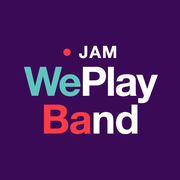
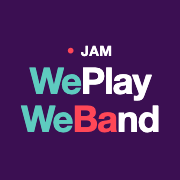
아이콘 글자 WePlay WeBand로 수정 — 사용자 10/27

Changed region(s): [[0.1111, 0.3611, 0.8889, 0.75], [0.4444, 0.25, 0.6667, 0.3333], [0.3333, 0.25, 0.4167, 0.3333]]

diff --git a/band.html b/band.html
@@ -1,6 +1,6 @@
 <!doctype html><html lang="ko"><head><meta charset="utf-8"><meta name="viewport" content="width=device-width,initial-scale=1,viewport-fit=cover">
 <meta name="apple-mobile-web-app-capable" content="yes"><meta name="mobile-web-app-capable" content="yes"><meta name="apple-mobile-web-app-status-bar-style" content="black-translucent"><meta name="theme-color" content="#000000">
-<link rel="manifest" href="manifest.webmanifest"><link rel="apple-touch-icon" href="apple-touch-icon.png"><link rel="icon" type="image/png" href="icon-512.png"><meta name="apple-mobile-web-app-title" content="위밴드"><title>위밴드</title>
+<link rel="manifest" href="manifest.webmanifest"><link rel="apple-touch-icon" href="apple-touch-icon.png?v=2"><link rel="icon" type="image/png" href="icon-512.png?v=2"><meta name="apple-mobile-web-app-title" content="위밴드"><title>위밴드</title>
 <style>
 #spl{position:fixed;inset:0;background:radial-gradient(120% 80% at 50% 42%,#5a1683 0%,#3B0A57 60%,#2a0640 100%);z-index:100000;color:#fff;font-family:-apple-system,"Apple SD Gothic Neo","Helvetica Neue",sans-serif;overflow:hidden}
 #spl .stg{position:absolute;left:50%;top:44%;width:0;height:0}

diff --git a/at.html b/at.html
@@ -1,6 +1,6 @@
 <!doctype html><html lang="ko"><head><meta charset="utf-8"><meta name="viewport" content="width=device-width,initial-scale=1,viewport-fit=cover">
 <meta name="apple-mobile-web-app-capable" content="yes"><meta name="mobile-web-app-capable" content="yes"><meta name="apple-mobile-web-app-status-bar-style" content="black-translucent"><meta name="theme-color" content="#111">
-<link rel="manifest" href="manifest.webmanifest"><link rel="apple-touch-icon" href="apple-touch-icon.png"><link rel="icon" type="image/png" href="icon-512.png"><meta name="apple-mobile-web-app-title" content="위밴드"><title>새로 그린 악보 · 모두의 밴드</title>
+<link rel="manifest" href="manifest.webmanifest"><link rel="apple-touch-icon" href="apple-touch-icon.png?v=2"><link rel="icon" type="image/png" href="icon-512.png?v=2"><meta name="apple-mobile-web-app-title" content="위밴드"><title>새로 그린 악보 · 모두의 밴드</title>
 <style>
 :root{--bg:#fff;--fg:#111}
 body{margin:0;touch-action:manipulation;overflow-x:hidden;font-family:-apple-system,system-ui,sans-serif;background:var(--bg);color:var(--fg)}

diff --git a/index.html b/index.html
@@ -4,7 +4,7 @@
 <meta name="apple-mobile-web-app-capable" content="yes">
 <meta name="theme-color" content="#111827">
 <title>모두의 합주 악보</title>
-<link rel="apple-touch-icon" href="apple-touch-icon.png"><link rel="icon" type="image/png" href="icon-512.png"><meta name="apple-mobile-web-app-title" content="위밴드">
+<link rel="apple-touch-icon" href="apple-touch-icon.png?v=2"><link rel="icon" type="image/png" href="icon-512.png?v=2"><meta name="apple-mobile-web-app-title" content="위밴드">
 <script src="https://cdnjs.cloudflare.com/ajax/libs/pdf.js/3.11.174/pdf.min.js"></script>
 <style>
 :root{--bg:#f8fafc;--card:#fff;--ink:#111827;--sub:#64748b;--line:#cbd5e1;--acc:#dc2626;--blue:#2563eb}
